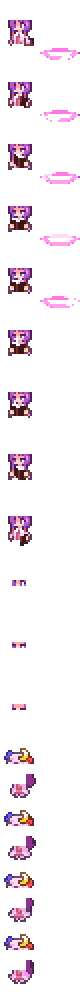
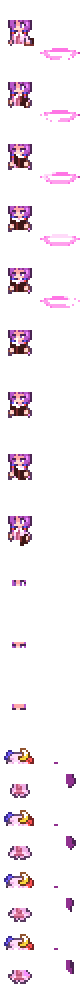
删去部分宠物绘制中多余的语句，完善DrawStateNormalize的注释，更改帕秋莉和斯卡蕾特一家的贴图

diff --git a/Content/Projectiles/Pets/Patchouli.cs b/Content/Projectiles/Pets/Patchouli.cs
@@ -18,22 +18,22 @@ namespace TouhouPets.Content.Projectiles.Pets
         public override bool PreDraw(ref Color lightColor)
         {
             DrawAura();
+            DrawPatchouli(clothFrame, lightColor, 0, null, true);            
             Projectile.DrawStateNormalizeForPet();
-            DrawPatchouli(clothFrame, lightColor, null, true);
-            Projectile.DrawStateNormalizeForPet();
-            DrawPatchouli(clothFrame, lightColor, AltVanillaFunction.GetExtraTexture("Patchouli_Cloth"));
+            DrawPatchouli(clothFrame, lightColor, 1, null);
+            DrawPatchouli(clothFrame, lightColor, 0, AltVanillaFunction.GetExtraTexture("Patchouli_Cloth"));
             DrawPatchouli(Projectile.frame, lightColor);
             if (PetState == 1 || PetState == 3)
                 DrawPatchouli(blinkFrame, lightColor);
-            DrawPatchouli(Projectile.frame, lightColor, AltVanillaFunction.GetExtraTexture("Patchouli_Cloth"), true);
+            DrawPatchouli(Projectile.frame, lightColor, 0, AltVanillaFunction.GetExtraTexture("Patchouli_Cloth"), true);
             return false;
         }
-        private void DrawPatchouli(int frame, Color lightColor, Texture2D tex = null, bool entitySpriteDraw = false)
+        private void DrawPatchouli(int frame, Color lightColor, int columns = 0, Texture2D tex = null, bool entitySpriteDraw = false)
         {
             Texture2D t = tex ?? AltVanillaFunction.ProjectileTexture(Type);
             int height = t.Height / Main.projFrames[Type];
             Vector2 pos = Projectile.Center - Main.screenPosition + new Vector2(0, 7f * Main.essScale);
-            Rectangle rect = new Rectangle(0, frame * height, t.Width / 2, height);
+            Rectangle rect = new Rectangle(t.Width / 2 * columns, frame * height, t.Width / 2, height);
             Vector2 orig = rect.Size() / 2;
             SpriteEffects effect = Projectile.spriteDirection == -1 ? SpriteEffects.None : SpriteEffects.FlipHorizontally;
             if (entitySpriteDraw)

diff --git a/Content/Projectiles/Pets/Rin.cs b/Content/Projectiles/Pets/Rin.cs
@@ -17,20 +17,20 @@ namespace TouhouPets.Content.Projectiles.Pets
         }
         public override bool PreDraw(ref Color lightColor)
         {
-            DrawMarisa(swingFrame + 8, lightColor, 1);
-            DrawMarisa(swingFrame + 4, lightColor, 1);
-            DrawMarisa(Projectile.frame, lightColor);
+            DrawRin(swingFrame + 8, lightColor, 1);
+            DrawRin(swingFrame + 4, lightColor, 1);
+            DrawRin(Projectile.frame, lightColor);
             if (PetState == 1)
-                DrawMarisa(blinkFrame, lightColor);
-            DrawMarisa(swingFrame, lightColor, 1);
-            DrawMarisa(swingFrame + 4, lightColor, 1, AltVanillaFunction.GetExtraTexture("Rin_Cloth"), true);
-            DrawMarisa(Projectile.frame, lightColor, 0, AltVanillaFunction.GetExtraTexture("Rin_Cloth"), true);
-            DrawMarisa(swingFrame, lightColor, 1, AltVanillaFunction.GetExtraTexture("Rin_Cloth"), true);
+                DrawRin(blinkFrame, lightColor);
+            DrawRin(swingFrame, lightColor, 1);
+            DrawRin(swingFrame + 4, lightColor, 1, AltVanillaFunction.GetExtraTexture("Rin_Cloth"), true);
+            DrawRin(Projectile.frame, lightColor, 0, AltVanillaFunction.GetExtraTexture("Rin_Cloth"), true);
+            DrawRin(swingFrame, lightColor, 1, AltVanillaFunction.GetExtraTexture("Rin_Cloth"), true);
             Projectile.DrawStateNormalizeForPet();
-            DrawMarisa(Projectile.frame, Color.White * 0.8f, 2);
+            DrawRin(Projectile.frame, Color.White * 0.8f, 2);
             return false;
         }
-        private void DrawMarisa(int frame, Color lightColor, int columns = 0, Texture2D tex = null, bool entitySpriteDraw = false)
+        private void DrawRin(int frame, Color lightColor, int columns = 0, Texture2D tex = null, bool entitySpriteDraw = false)
         {
             Texture2D t = tex ?? AltVanillaFunction.ProjectileTexture(Type);
             int height = t.Height / Main.projFrames[Type];

diff --git a/Content/Projectiles/Pets/Sanae.cs b/Content/Projectiles/Pets/Sanae.cs
@@ -62,7 +62,6 @@ namespace TouhouPets.Content.Projectiles.Pets
                 Main.spriteBatch.TeaNPCDraw(t, pos, rect5, Projectile.GetAlpha(lightColor), Projectile.rotation, orig, Projectile.scale, effect, 0f);
                 Main.EntitySpriteDraw(t, pos + new Vector2(0, extraAdjY), rect3, Projectile.GetAlpha(lightColor), Projectile.rotation, orig, Projectile.scale, effect, 0f);
             }
-            Projectile.DrawStateNormalizeForPet();
             return false;
         }
         private void DrawSanaeAura(Color lightColor, Vector2 pos, Vector2 orig, SpriteEffects effect, Rectangle rect1, Rectangle rect2, Rectangle rect3)

diff --git a/Content/Projectiles/Pets/Utsuho.cs b/Content/Projectiles/Pets/Utsuho.cs
@@ -23,7 +23,7 @@ namespace TouhouPets.Content.Projectiles.Pets
             Projectile.DrawStateNormalizeForPet();
             DrawUtsuho(Projectile.frame, Projectile.GetAlpha(lightColor));
             DrawUtsuho(Projectile.frame, Projectile.GetAlpha(lightColor), AltVanillaFunction.GetExtraTexture("Utsuho_Cloth"), true);
-            Projectile.DrawStateNormalizeForPet();
+            //Projectile.DrawStateNormalizeForPet();
             DrawEye();
             return false;
         }

diff --git a/Common/Utils/ModUtils.cs b/Common/Utils/ModUtils.cs
@@ -14,7 +14,7 @@ namespace TouhouPets
     {
         /// <summary>
         /// 将宠物的绘制状态重置，防止被染料的Shader影响
-        /// <br>插在不需要着色的语句前面</br>
+        /// <br>仅需要插在不需要着色的语句之后和执行着色的语句之前</br>
         /// </summary>
         public static void DrawStateNormalizeForPet(this Projectile projectile)
         {

diff --git a/Content/Projectiles/Pets/Satori.cs b/Content/Projectiles/Pets/Satori.cs
@@ -25,7 +25,6 @@ namespace TouhouPets.Content.Projectiles.Pets
             if (eyeAdj.Y <= 0)
                 DrawEye(eyePos - Main.screenPosition);
 
-            Projectile.DrawStateNormalizeForPet();
             DrawSatori(Projectile.frame, lightColor);
             if (PetState == 1)
                 DrawSatori(blinkFrame, lightColor);

diff --git a/Content/Projectiles/Pets/Koishi.cs b/Content/Projectiles/Pets/Koishi.cs
@@ -27,7 +27,6 @@ namespace TouhouPets.Content.Projectiles.Pets
             if (eyeAdj.Y <= 0)
                 DrawEye(eyePos, lightColor);
 
-            Projectile.DrawStateNormalizeForPet();
             DrawKoishi(Projectile.frame, lightColor);
             if (PetState == 1)
                 DrawKoishi(blinkFrame, lightColor, 1);
